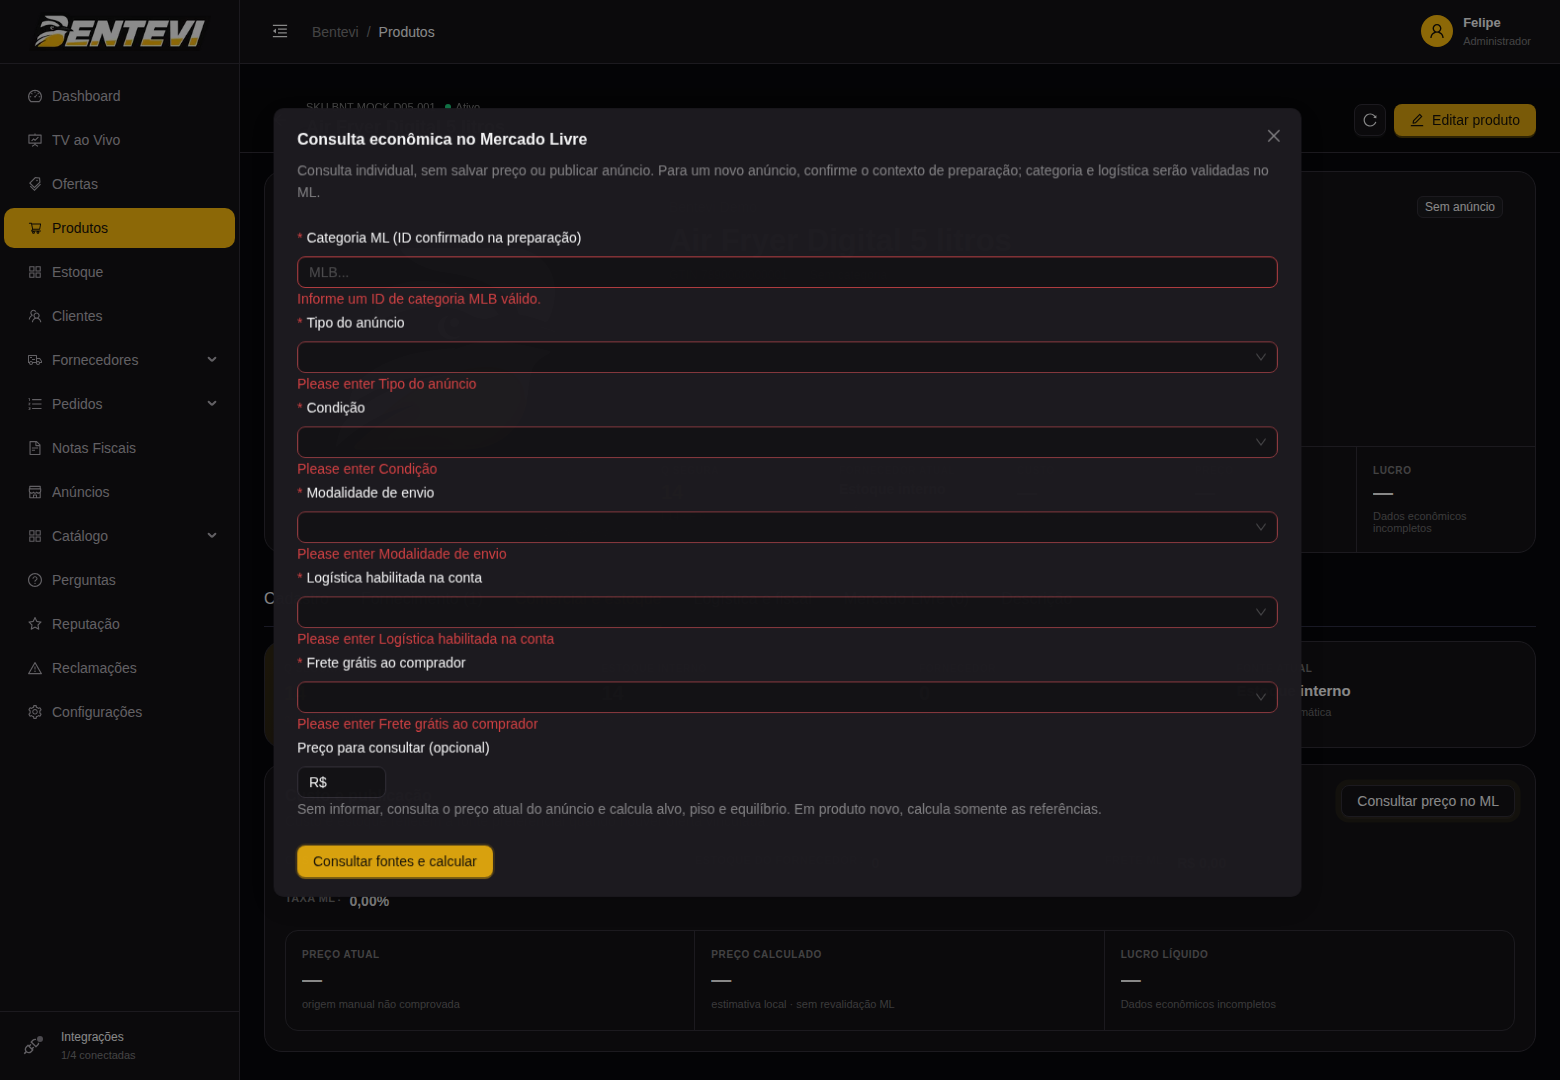
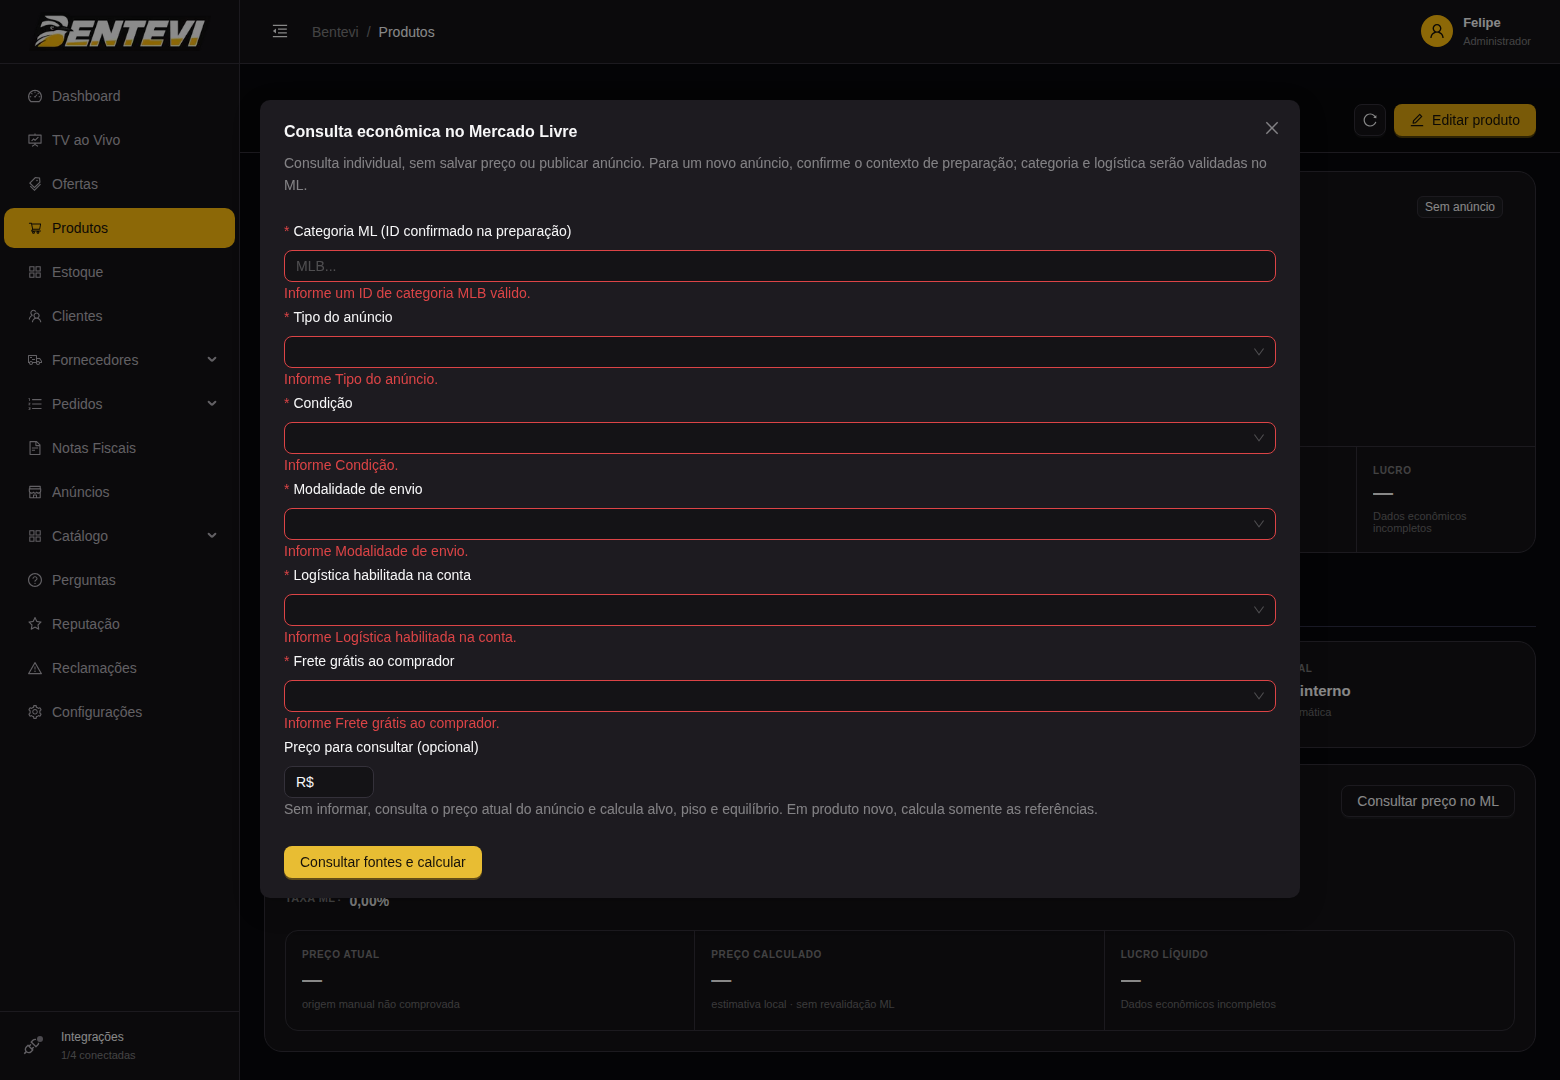
docs(pricing): record final DEV checks and pending economic proof

diff --git a/docs/reestruturacao-vortek/evidencias/M2M-PRC-04-validacao.md b/docs/reestruturacao-vortek/evidencias/M2M-PRC-04-validacao.md
@@ -4,7 +4,7 @@ Data: 06/09/2026. Worktree/branch: vortek-dev / dev. Base anterior: 9d44997.
 
 ## Estado e limite de conclusão
 
-Implementação e validação local concluídas; primeira publicação DEV e verificação web autenticada executadas. **Ação ainda aberta**, aguardando homologação econômica completa com oferta elegível e contexto comercial de teste apto. Não avançar para CFL-01 enquanto essa evidência não existir.
+Implementação e validação local concluídas; runtime final **8edefd2** publicado em DEV e verificação web autenticada executada. **Ação ainda aberta**, aguardando homologação econômica completa com oferta elegível e contexto comercial de teste apto. Não avançar para CFL-01 enquanto essa evidência não existir.
 
 ## AS_IS → TO_BE
 
@@ -61,6 +61,9 @@ Preflight por conexão direta: **192.168.1.162**, hostname **supabase-dev**, tra
 - POST cotação sobre fixture: 409 `homologation_fixture_read_only`; campo sellerId não permitido: 422. Criação/preço/opt-in: 409 `pricing_execution_not_ready`.
 - Navegação autenticada sem erros JavaScript: botão desabilitado na amostra; modal acessível no produto DEV operacional; campos obrigatórios bloqueiam submissão incompleta; fechar/reabrir limpa estado. Revisão visual identificou mensagens padrão em inglês e foi aplicada tradução no próprio formulário antes do encerramento da entrega.
 - [Amostra protegida](M2M-PRC-04-fixture-protegida.png) e [preparação de cotação](M2M-PRC-04-preparacao.png). Essas capturas não representam cotação econômica comercial completa.
[1 lines of base64/hex data omitted]
+- Após o último build, a homologação autenticada repetiu os HTTP 200/409/422 acima com sucesso, sem erros JavaScript; mensagem `Informe Tipo do anúncio.` visível e `Please enter` ausente. Capturas atualizadas e inspecionadas. Auth temporário novamente encerrado apenas em .162. Sem mudança de senha ou dados comerciais.
+- A interface/guardas estão validados em DEV. O cálculo completo com oferta e cotação comercial viva **não** foi homologado: permanece a pendência descrita acima. Sem avanço de CFL-01 ou liberação de publicação/reprecificação.
 
 ## Rollback e riscos residuais
 
